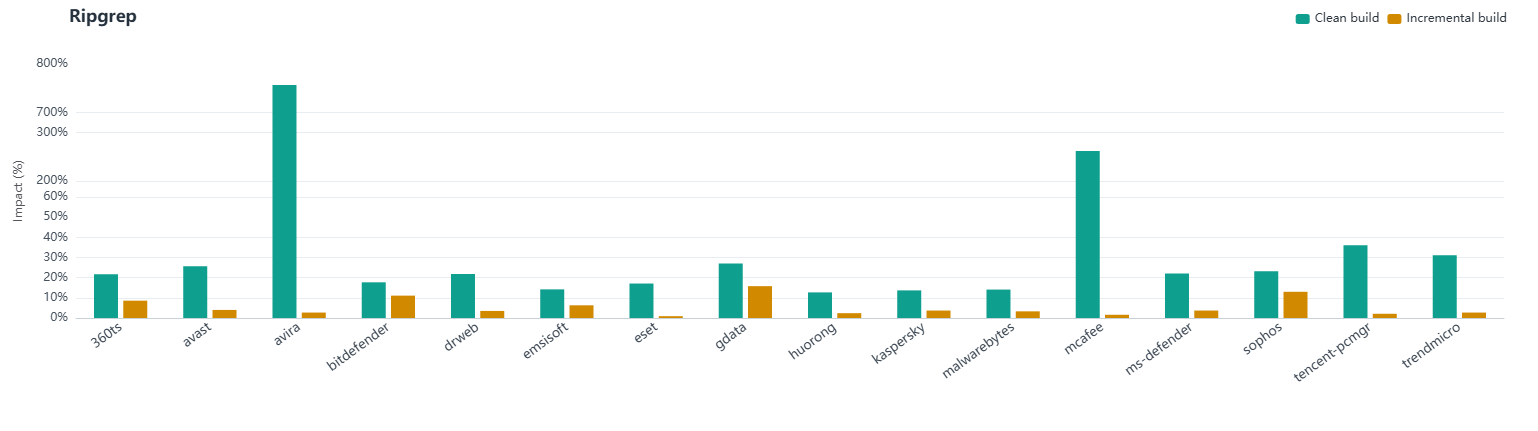
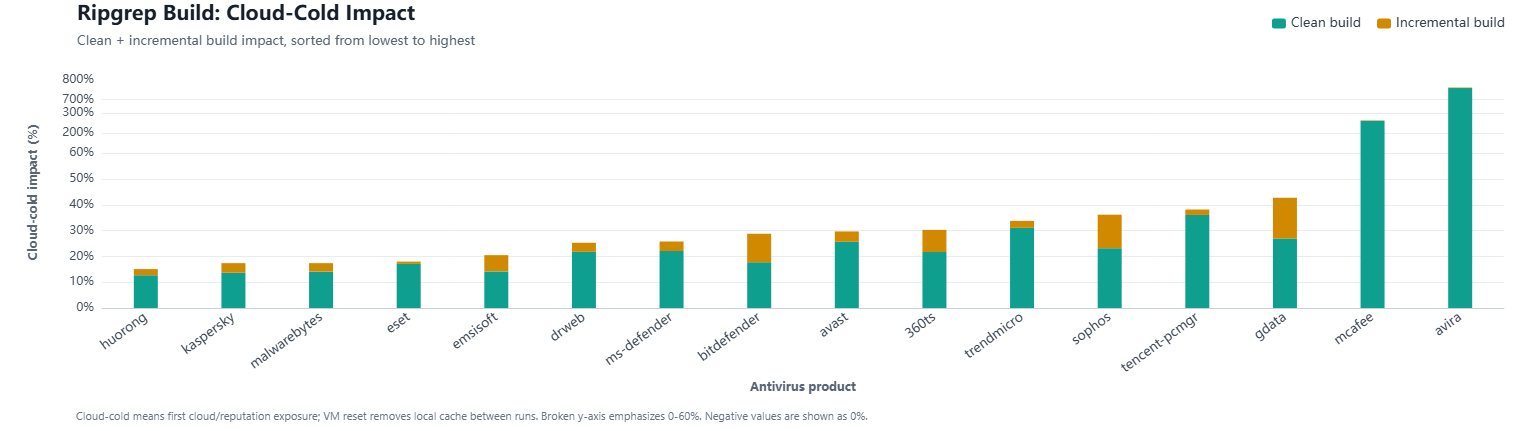
feat: update workload charts with improved axis handling and new visual elements

diff --git a/visualizations/src/charts/CompilationWorkloadsChart.tsx b/visualizations/src/charts/CompilationWorkloadsChart.tsx
@@ -15,49 +15,94 @@ type Props = {
 type WorkloadKey = 'ripgrep' | 'roslyn'
 type BarPoint = {
   value: number | null
-  actualValue?: number
-  capped?: boolean
   status?: string
+}
+
+type SortedWorkloadRow = {
+  avName: string
+  clean: number
+  incremental: number
+  total: number
 }
 
 type ManualAxisBreak = {
   max: number
   ticks: number[]
   tickLabels: Map<number, number>
+  transform: (value: number) => number
 }
 
 const cleanColor = '#0f9f8f'
 const incrementalColor = '#d18a00'
-const overflowRatio = 0.04
 
 const ripgrepBrokenAxis: ManualAxisBreak = {
-  max: 126,
-  ticks: [0, 10, 20, 30, 40, 50, 60, 68, 92, 102, 126],
+  max: 138,
+  ticks: [
+    0,
+    15.3,
+    30.7,
+    46,
+    61.3,
+    76.7,
+    92,
+    104,
+    116,
+    124,
+    136,
+  ],
   tickLabels: new Map([
     [0, 0],
-    [10, 10],
-    [20, 20],
-    [30, 30],
-    [40, 40],
-    [50, 50],
-    [60, 60],
-    [68, 200],
-    [92, 300],
-    [102, 700],
-    [126, 800],
+    [15.3, 10],
+    [30.7, 20],
+    [46, 30],
+    [61.3, 40],
+    [76.7, 50],
+    [92, 60],
+    [104, 200],
+    [116, 300],
+    [124, 700],
+    [136, 800],
   ]),
+  transform: transformRipgrepValue,
+}
+
+const roslynBrokenAxis: ManualAxisBreak = {
+  max: 130,
+  ticks: [0, 11.5, 23, 34.5, 46, 57.5, 69, 80.5, 92, 104, 114, 124],
+  tickLabels: new Map([
+    [0, 0],
+    [11.5, 10],
+    [23, 20],
+    [34.5, 30],
+    [46, 40],
+    [57.5, 50],
+    [69, 60],
+    [80.5, 70],
+    [92, 80],
+    [104, 200],
+    [114, 250],
+    [124, 300],
+  ]),
+  transform: transformRoslynValue,
 }
 
 const chartConfig = {
   ripgrep: {
-    title: 'Ripgrep',
+    title: 'Ripgrep Build: Cloud-Cold Impact',
+    subtitle: 'Clean + incremental build impact, sorted from lowest to highest',
+    footnote: 'Cloud-cold means first cloud/reputation exposure; VM reset removes local cache between runs. Broken y-axis emphasizes 0-60%. Negative values are shown as 0%.',
     axisMax: 60,
   },
   roslyn: {
-    title: 'Roslyn',
-    axisMax: 190,
+    title: 'Roslyn Build: Cloud-Cold Impact',
+    subtitle: 'Clean + incremental build impact, sorted from lowest to highest',
+    footnote: 'Cloud-cold means first cloud/reputation exposure; VM reset removes local cache between runs. Broken y-axis emphasizes 0-80%. Negative values are shown as 0%.',
+    axisMax: 80,
   },
-} satisfies Record<WorkloadKey, { title: string; axisMax: number }>
+} satisfies Record<
+  WorkloadKey,
+  { title: string; subtitle: string; footnote: string; axisMax: number }
+>
 
 export function CompilationWorkloadsChart({ data, onReady }: Props) {
   const [readyCount, setReadyCount] = useState(0)
@@ -75,10 +120,10 @@ export function CompilationWorkloadsChart({ data, onReady }: Props) {
     <div className="figure">
       <header className="figure-header">
         <div>
-          <h1>Compilation Workload First-Run Impact</h1>
+          <h1>Compilation Workload Cloud-Cold Impact</h1>
           <p>
-            Impact vs baseline OS. Negative values are shown as 0%; ripgrep uses
-            a broken y-axis for high outliers.
+            Impact vs baseline OS before cloud reputation/cache has warmed for
+            the workload. Negative values are shown as 0%.
           </p>
         </div>
         <div className="legend" aria-hidden="true">
@@ -121,45 +166,60 @@ function WorkloadChart({
 
 function buildWorkloadOption(rows: CompilationWorkloadRow[], workload: WorkloadKey): EChartsOption {
   const config = chartConfig[workload]
-  const avNames = rows.map((row) => row.avName)
-  const brokenAxis = workload === 'ripgrep' ? ripgrepBrokenAxis : undefined
-  const chartMax = brokenAxis?.max ?? config.axisMax * (1 + overflowRatio)
-  const cleanPoints = rows.map((row) =>
-    toBarPoint(row[workload].clean, brokenAxis, config.axisMax, chartMax),
-  )
-  const incrementalPoints = rows.map((row) =>
-    toBarPoint(row[workload].incremental, brokenAxis, config.axisMax, chartMax),
-  )
+  const sortedRows = getSortedWorkloadRows(rows, workload)
+  const avNames = sortedRows.map((row) => row.avName)
+  const brokenAxis = workload === 'ripgrep' ? ripgrepBrokenAxis : roslynBrokenAxis
+  const chartMax = brokenAxis?.max ?? config.axisMax
+  const { cleanPoints, incrementalPoints } = getStackedPoints(sortedRows, brokenAxis)
   return {
     animation: false,
     backgroundColor: '#ffffff',
     title: {
       text: config.title,
-      left: 64,
-      top: 4,
+      subtext: config.subtitle,
+      left: 72,
+      top: 0,
       textStyle: {
-        color: '#25313d',
-        fontSize: 17,
-        fontWeight: 650,
+        color: '#17202a',
+        fontSize: 20,
+        fontWeight: 700,
+      },
+      subtextStyle: {
+        color: '#596573',
+        fontSize: 13,
       },
     },
     legend: {
-      top: 8,
-      right: 26,
+      top: 12,
+      right: 28,
       itemWidth: 14,
       itemHeight: 10,
+      itemGap: 16,
       textStyle: {
-        color: '#303841',
+        color: '#35404b',
+        fontSize: 13,
       },
       data: ['Clean build', 'Incremental build'],
     },
     grid: {
-      left: 76,
+      left: 102,
       right: 34,
-      top: 64,
-      bottom: 112,
+      top: 76,
+      bottom: 122,
       containLabel: false,
     },
+    graphic: [
+      {
+        type: 'text',
+        left: 76,
+        bottom: 8,
+        style: {
+          text: config.footnote,
+          fill: '#677380',
+          font: '11px system-ui, Segoe UI, Roboto, sans-serif',
+        },
+      },
+    ],
     tooltip: {
       trigger: 'axis',
       axisPointer: { type: 'shadow' },
@@ -170,6 +230,14 @@ function buildWorkloadOption(rows: CompilationWorkloadRow[], workload: WorkloadK
       data: avNames,
       axisTick: { alignWithLabel: true },
       axisLine: { lineStyle: { color: '#c8d0d8' } },
+      name: 'Antivirus product',
+      nameLocation: 'middle',
+      nameGap: 72,
+      nameTextStyle: {
+        color: '#596573',
+        fontSize: 12,
+        fontWeight: 600,
+      },
       axisLabel: {
         color: '#3b4652',
         interval: 0,
@@ -182,11 +250,17 @@ function buildWorkloadOption(rows: CompilationWorkloadRow[], workload: WorkloadK
       min: 0,
       max: chartMax,
       splitNumber: workload === 'ripgrep' ? 7 : 5,
-      name: 'Impact (%)',
+      name: 'Cloud-cold impact (%)',
       nameLocation: 'middle',
-      nameGap: 48,
+      nameGap: 62,
+      nameTextStyle: {
+        color: '#596573',
+        fontSize: 12,
+        fontWeight: 600,
+      },
       axisLabel: {
         color: '#46515d',
+        fontSize: 12,
         customValues: brokenAxis?.ticks,
         formatter: (value: number) => formatAxisLabel(value, brokenAxis, config.axisMax),
       },
@@ -196,19 +270,7 @@ function buildWorkloadOption(rows: CompilationWorkloadRow[], workload: WorkloadK
       splitLine: {
         show: true,
         showMaxLine: false,
-        lineStyle: {
-          color:
-            workload === 'ripgrep'
-              ? [
-                  '#e8edf2',
-                  '#e8edf2',
-                  '#e8edf2',
-                  '#e8edf2',
-                  '#e8edf2',
-                  'rgba(232, 237, 242, 0)',
-                ]
-              : '#e8edf2',
-        },
+        lineStyle: { color: '#e8edf2' },
       },
       axisLine: { show: false },
     },
@@ -223,65 +285,69 @@ function buildSeries(name: string, points: BarPoint[], color: string) {
   return {
     name,
     type: 'bar' as const,
+    stack: 'total-impact',
     barMaxWidth: 24,
-    barGap: '22%',
     data: points.map((point) => point.value),
     itemStyle: { color },
-    label: {
-      show: true,
-      position: 'top' as const,
-      color: '#394450',
-      fontSize: 11,
-      formatter: (params: unknown) => {
-        const dataIndex = (params as { dataIndex?: number }).dataIndex ?? -1
-        const point = points[dataIndex]
-        return point?.capped && point.actualValue !== undefined
-          ? `{capped|${formatNumber(point.actualValue)}%}`
-          : ''
-      },
-      rich: {
-        capped: {
-          color: '#c73535',
-          fontWeight: 700,
-        },
-      },
-    },
     emphasis: {
       focus: 'series' as const,
     },
   }
 }
 
-function toBarPoint(
-  metric: BuildMetric | null,
-  brokenAxis: ManualAxisBreak | undefined,
-  cap: number,
-  overflowValue: number,
-): BarPoint {
-  if (!metric) {
-    return { value: null }
+function getSortedWorkloadRows(rows: CompilationWorkloadRow[], workload: WorkloadKey) {
+  return rows
+    .map((row): SortedWorkloadRow => {
+      const clean = metricValue(row[workload].clean)
+      const incremental = metricValue(row[workload].incremental)
+      return {
+        avName: row.avName,
+        clean,
+        incremental,
+        total: clean + incremental,
+      }
+    })
+    .sort((left, right) => left.total - right.total)
+}
+
+function getStackedPoints(rows: SortedWorkloadRow[], brokenAxis: ManualAxisBreak | undefined) {
+  if (!brokenAxis) {
+    return {
+      cleanPoints: rows.map((row) => ({ value: row.clean })),
+      incrementalPoints: rows.map((row) => ({ value: row.incremental })),
+    }
   }
 
-  const displayValue = Math.max(0, metric.value)
-  const capped = !brokenAxis && metric.value > cap
   return {
-    value: brokenAxis ? transformRipgrepValue(displayValue) : capped ? overflowValue : displayValue,
-    actualValue: metric.value,
-    capped,
-    status: metric.status,
+    cleanPoints: rows.map((row) => ({ value: brokenAxis.transform(row.clean) })),
+    incrementalPoints: rows.map((row) => ({
+      value: brokenAxis.transform(row.total) - brokenAxis.transform(row.clean),
+    })),
   }
+}
+
+function metricValue(metric: BuildMetric | null) {
+  return metric ? Math.max(0, metric.value) : 0
 }
 
 function transformRipgrepValue(value: number) {
   if (value <= 60) {
-    return value
+    return (value / 60) * 92
   }
 
   if (value <= 300) {
-    return 68 + ((Math.max(value, 200) - 200) / 100) * 24
+    return 104 + ((Math.max(value, 200) - 200) / 100) * 12
   }
 
-  return 102 + ((Math.min(value, 800) - 700) / 100) * 24
+  return 124 + ((Math.min(value, 800) - 700) / 100) * 12
+}
+
+function transformRoslynValue(value: number) {
+  if (value <= 80) {
+    return (value / 80) * 92
+  }
+
+  return 104 + ((Math.min(Math.max(value, 200), 320) - 200) / 120) * 24
 }
 
 function formatAxisLabel(value: number, brokenAxis: ManualAxisBreak | undefined, cap: number) {
@@ -291,8 +357,4 @@ function formatAxisLabel(value: number, brokenAxis: ManualAxisBreak | undefined,
 
   const label = brokenAxis.tickLabels.get(value)
   return label === undefined ? '' : `${label}%`
-}
-
-function formatNumber(value: number) {
-  return Number.isFinite(value) ? value.toFixed(1) : '-'
 }

diff --git a/visualizations/scripts/export-png.ts b/visualizations/scripts/export-png.ts
@@ -37,7 +37,9 @@ try {
   const browser = await chromium.launch()
   const page = await browser.newPage({ viewport: { width: 1700, height: 1200 }, deviceScaleFactor: 1 })
   await page.goto(url)
-  await page.locator('[data-chart-ready="true"]').waitFor({ timeout: 15_000 })
+  await page.locator('[data-workload="ripgrep"] canvas').waitFor({ timeout: 15_000 })
+  await page.locator('[data-workload="roslyn"] canvas').waitFor({ timeout: 15_000 })
+  await page.waitForTimeout(300)
   for (const output of outputs) {
     await page
       .locator(`[data-workload="${output.workload}"]`)
